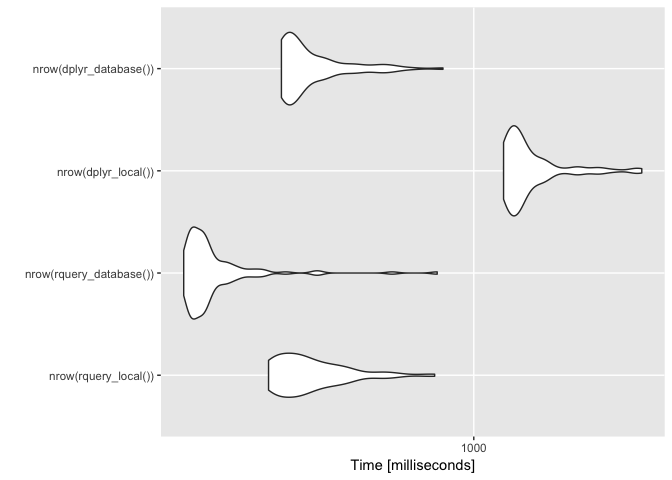
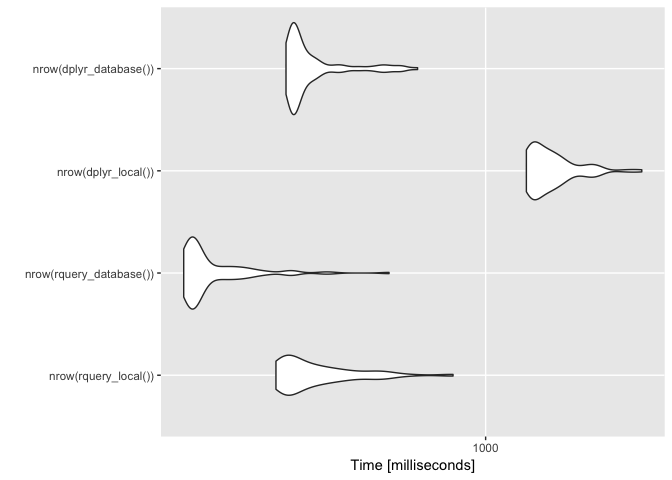
Add notes and re-run.

diff --git a/extras/QTiming.md b/extras/QTiming.md
@@ -3,6 +3,10 @@ QTiming
 Win-Vector LLC
 1/7/2018
 
+Let's time both [`rquery`](https://winvector.github.io/rquery/) and [`dplyr`](https://CRAN.R-project.org/package=dplyr) on a non-trivial example.
+
+First let's load our packages, establish a database connection, and declare an [`rquery` ad hoc execution service](https://winvector.github.io/rquery/articles/AdHocQueries.html) (the "`winvector_temp_db_handle`").
+
 ``` r
 library("rquery")
 ```
@@ -38,6 +42,8 @@ db <- DBI::dbConnect(RPostgres::Postgres(),
                      password = 'pg')
 winvector_temp_db_handle <- list(db = db)
 ```
+
+We now build and extended version of the example from [Let’s Have Some Sympathy For The Part-time R User](http://www.win-vector.com/blog/2017/08/lets-have-some-sympathy-for-the-part-time-r-user/).
 
 ``` r
 nrep <- 10000
@@ -115,6 +121,8 @@ dplyr::glimpse(dT)
     ## $ irrelevantCol1  <chr> "irrel1", "irrel1", "irrel1", "irrel1", "irrel...
     ## $ irrelevantCol2  <chr> "irrel2", "irrel2", "irrel2", "irrel2", "irrel...
 
+Now we declare our operation pipelines, both on local (in-memory `data.frame`) and remote (already in a database) data.
+
 ``` r
 scale <- 0.237
 
@@ -181,6 +189,8 @@ dplyr_database <- function() {
 }
 ```
 
+Let's inspect the functions.
+
 ``` r
 head(rquery_local())
 ```
@@ -238,6 +248,8 @@ head(dplyr_database())
 
 I have tried to get rid of the warnings that the dplyr database pipeline is producing, but adding the "`na.rm = TRUE`" appears to have no effect.
 
+Now let's measure the speeds with `microbenchmark`.
+
 ``` r
 # check from: 
 # https://cran.r-project.org/web/packages/microbenchmark/microbenchmark.pdf
@@ -257,15 +269,15 @@ print(tm)
 
     ## Unit: milliseconds
     ##                     expr       min        lq      mean    median        uq
-    ##     nrow(rquery_local())  355.4043  381.3320  446.0680  422.6786  481.5949
-    ##  nrow(rquery_database())  231.7366  242.1512  275.0761  254.8006  271.8697
-    ##      nrow(dplyr_local()) 1161.9734 1196.9913 1346.8568 1255.5587 1379.2968
-    ##   nrow(dplyr_database())  379.2186  388.3321  446.7476  411.6656  466.1604
+    ##     nrow(rquery_local())  381.1088  399.5456  466.0389  430.1784  498.4860
+    ##  nrow(rquery_database())  249.3077  257.4781  288.2167  264.4856  298.8743
+    ##      nrow(dplyr_local()) 1206.1829 1243.1470 1365.7743 1314.5443 1422.0327
+    ##   nrow(dplyr_database())  399.1491  410.6539  454.7992  421.1326  456.3880
     ##        max neval
-    ##   821.0293   100
-    ##   831.6160   100
-    ##  2332.3156   100
-    ##   856.0904   100
+    ##   860.6808   100
+    ##   641.1706   100
+    ##  2051.2886   100
+    ##   731.2170   100
 
 ``` r
 autoplot(tm)
@@ -273,7 +285,9 @@ autoplot(tm)
 
 ![](QTiming_files/figure-markdown_github/timings-1.png)
 
-`rquery` appears to be fast. The extra time for "`rquery` local" is because `rquery` doesn't *really* have a local mode, it has to copy the data to the database and back in that case.
+`rquery` appears to be fast. The extra time for "`rquery` local" is because `rquery` doesn't *really* have a local mode, it has to copy the data to the database and back in that case. I currently guess `rquery` and `dplyr` are both picking up parallelism in the database.
+
+Let's re-measure with `rbenchmark`,
 
 ``` r
 tb <- benchmark(
@@ -287,10 +301,12 @@ knitr::kable(tb)
 
 |     | test             |  replications|  elapsed|  relative|  user.self|  sys.self|  user.child|  sys.child|
 |-----|:-----------------|-------------:|--------:|---------:|----------:|---------:|-----------:|----------:|
-| 4   | dplyr\_database  |           100|   42.953|     1.610|     13.431|     0.323|           0|          0|
-| 3   | dplyr\_local     |           100|  133.067|     4.988|    131.103|     0.940|           0|          0|
-| 2   | rquery\_database |           100|   26.676|     1.000|      4.790|     0.241|           0|          0|
-| 1   | rquery\_local    |           100|   37.718|     1.414|     14.457|     0.653|           0|          0|
+| 4   | dplyr\_database  |           100|   59.814|     2.250|     18.697|     0.435|           0|          0|
+| 3   | dplyr\_local     |           100|  131.143|     4.933|    129.200|     0.864|           0|          0|
+| 2   | rquery\_database |           100|   26.585|     1.000|      5.051|     0.238|           0|          0|
+| 1   | rquery\_local    |           100|   42.401|     1.595|     16.124|     0.776|           0|          0|
+
+And that is it. `rquery` isn't slow, even on local data!
 
 ``` r
 winvector_temp_db_handle <- NULL
